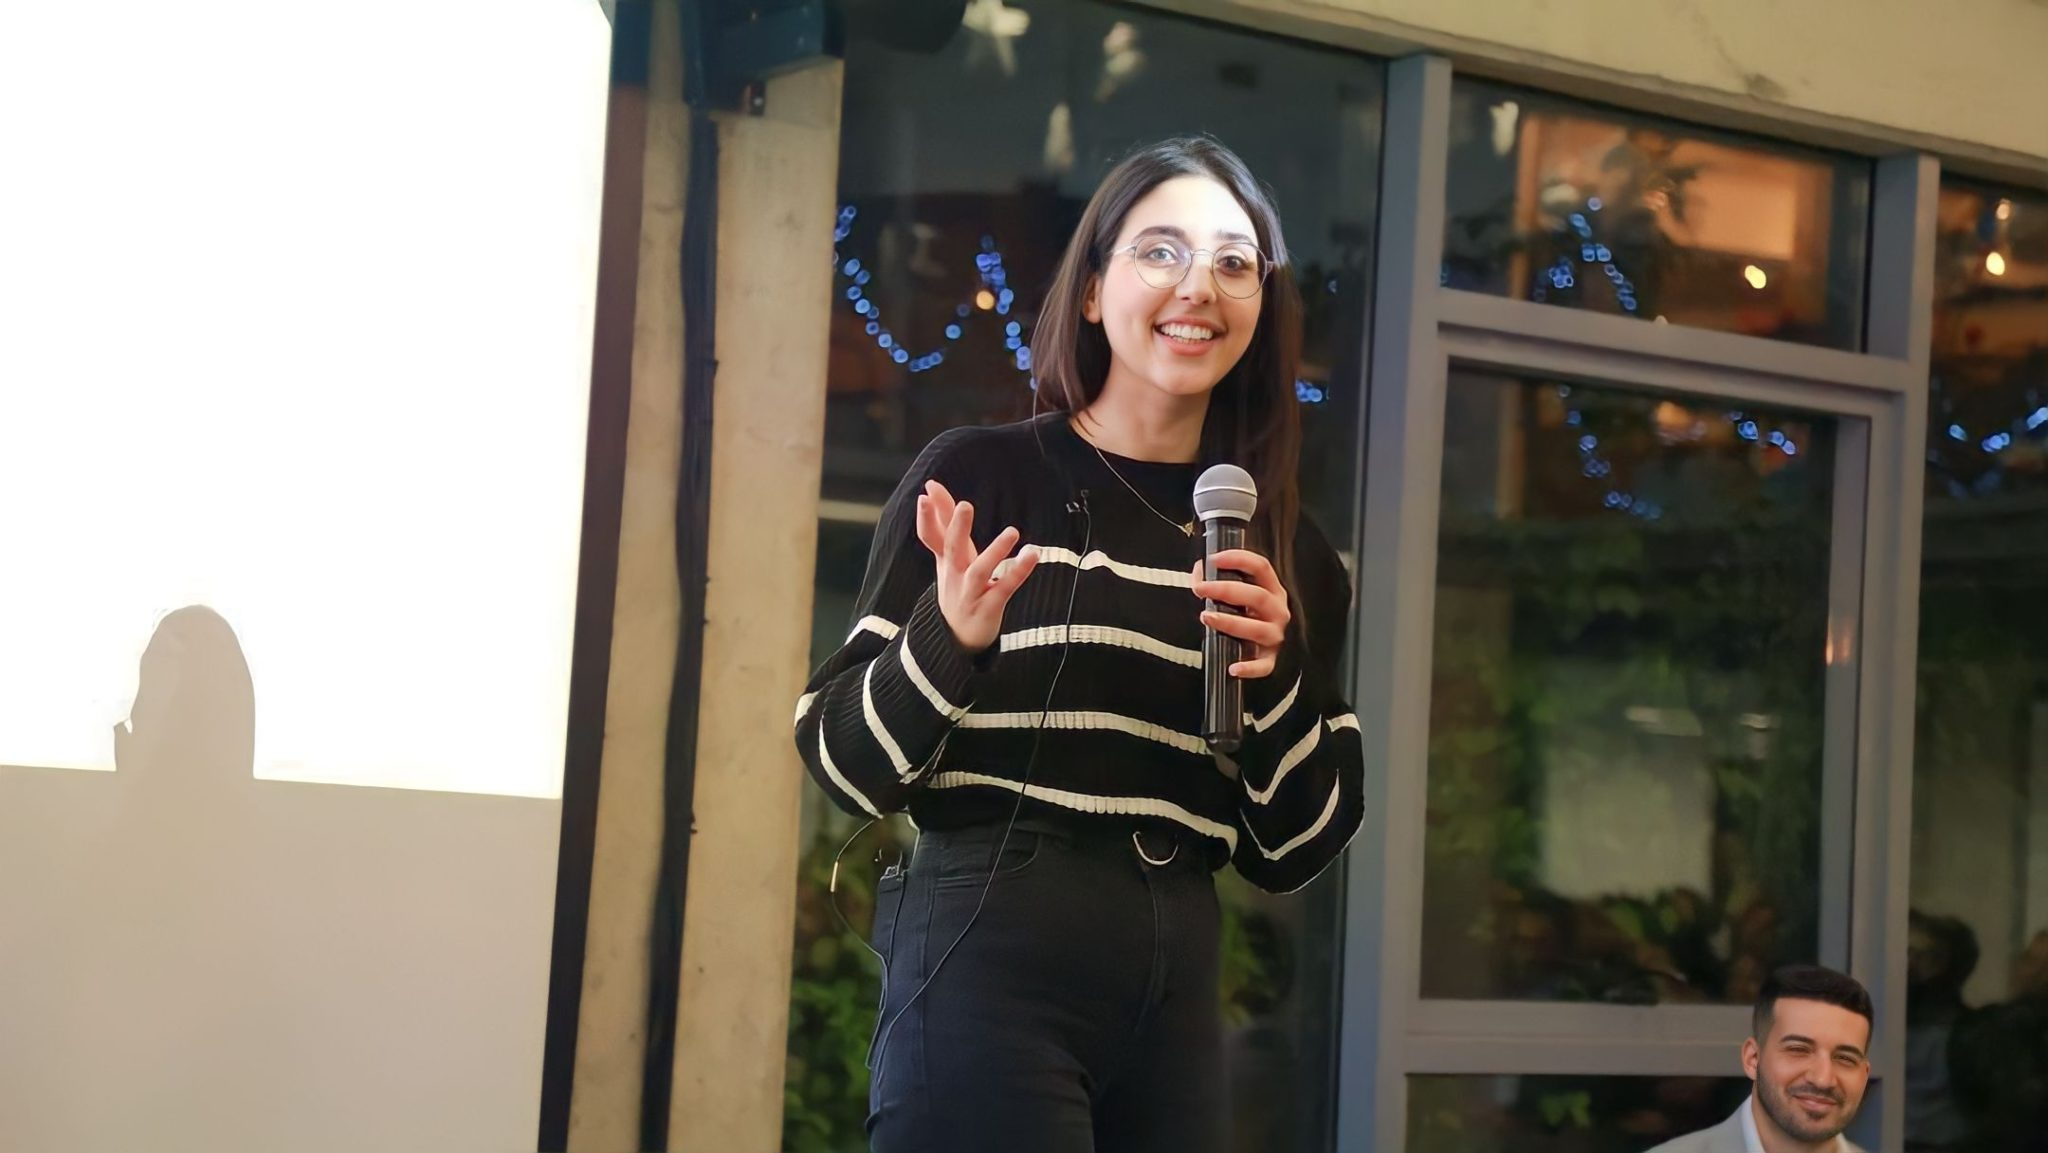
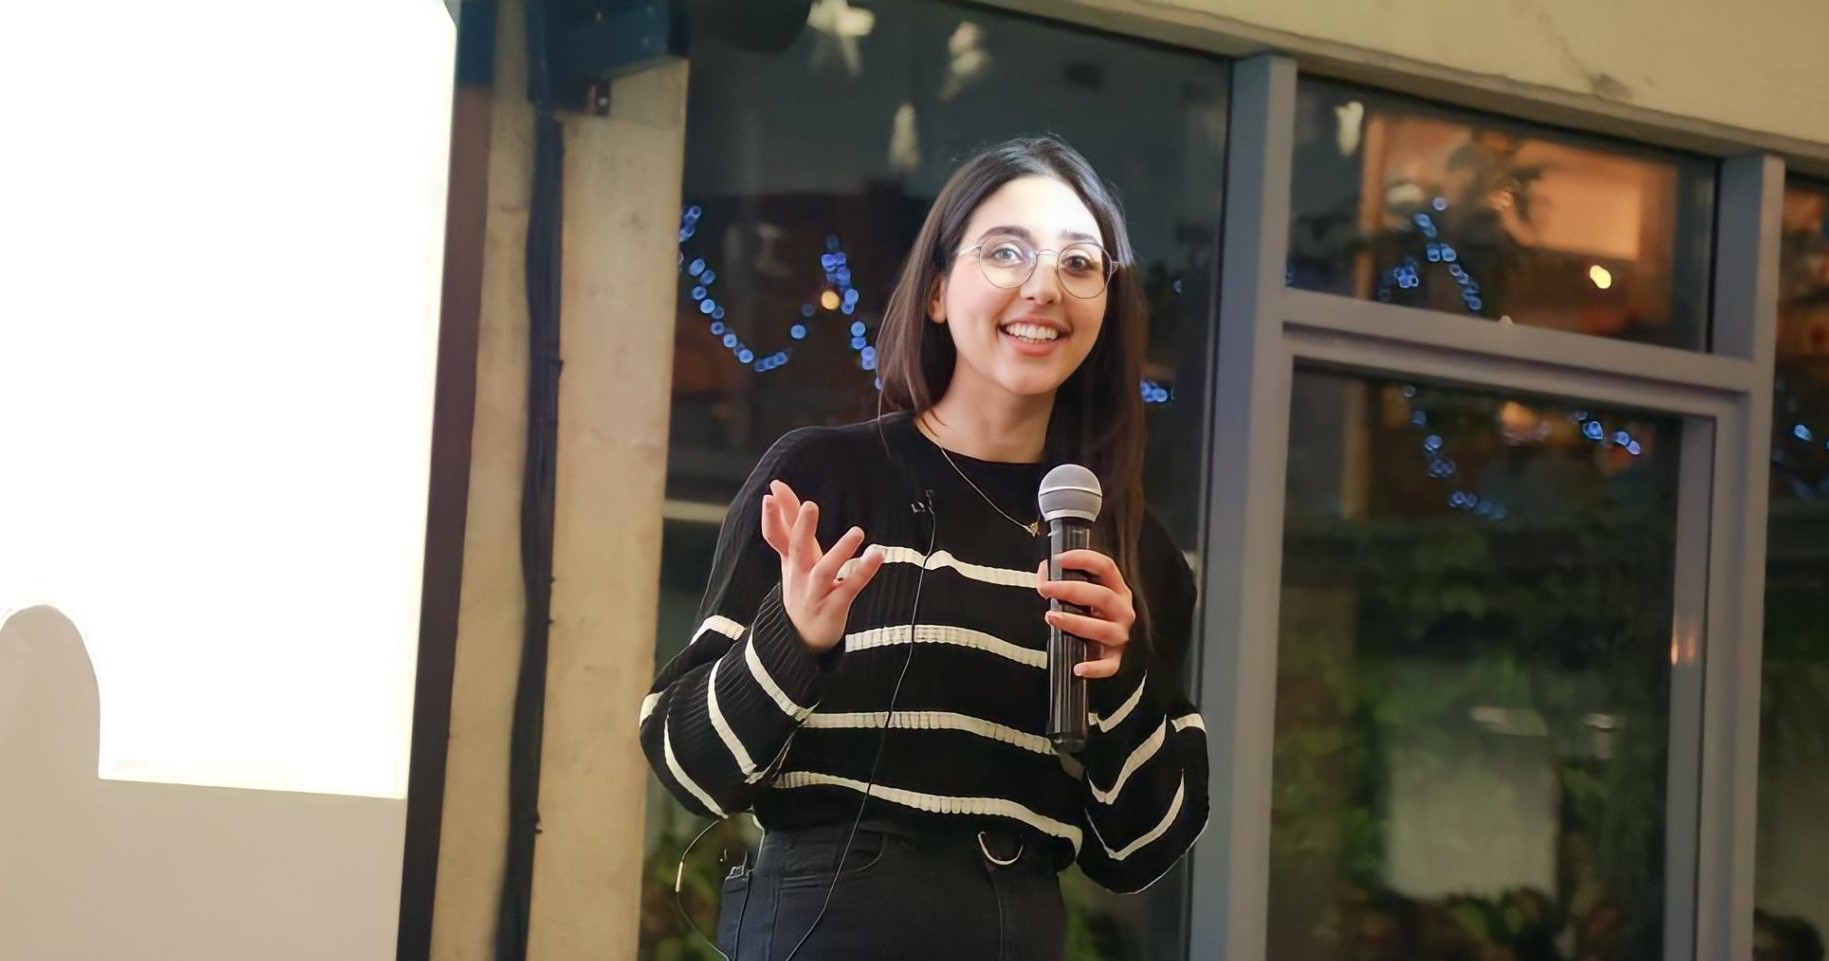
some more personal edits

diff --git a/src/Components/About.jsx b/src/Components/About.jsx
@@ -16,71 +16,88 @@ import React from "react";
  * Need an image? Check out https://unsplash.com to download a image you
  * freely use on your site.
  */
-import image from "../images/bg-green-leafs.jpg";
+import image from "../images/2.jpeg";
 
-const imageAltText = "purple and blue abstract background";
+const imageAltText = "space";
 
 /**
  * Sort description that expands on your title on the Home component.
  */
-const description =
-  "I'm a UI/UX student studying at Barnett Technical University. I enjoy creating unique and simplistic user interfaces in creative ways.";
+const description = [
+  "Hey! I am Marilyn Haber, a driven software developer with a passion for technology!",
+  "💻 I kick-started my career as a .NET developer, while still an undergraduate computer science student.",
+  "🚢 Currently, I am crafting impactful solutions to enhance innovation and efficiency in the freight management industry.",
+  "🚀 I have a growth mindset and always seek new opportunities to expand my skills and make a difference in the world!",
+  "👂 My experience in retail helped me develop my communication skills and learn the importance of actively listening to clients.",
+  "✨As a Facilitator of the Google Developers Student Clubs in Lebanon, my mission is to empower students and help them embark on their own tech journeys!",
+  "🎓I decided to pursue me education and get my masters degree. And here I am, a Microsoft Student Learn Ambassador at the Lebanese University!",
+];
 
 /**
  * List of some of skills or technologies you work on, are learning,
  * passionate about, or enjoy,
  */
-const skillsList = [
-  "Web design",
-  "User experience",
-  "Inclusive design",
-  "Focus group testing",
-  "Mobile user interfaces",
-  "Graphic design",
-];
+const skillsList = ["Web design", "User experience", "Inclusive design", "Focus group testing"];
 
 /**
  * Use this to give more information about what you are passionate about,
  * how you best work, or even a quote. This will help someone learn more
  * about you on a professional level.
  */
-const detailOrQuote =
-  "I am passionate about solving problems in new creative ways to drive innovation. By leveraging my UI/UX experience I continually look for new and better ways to make tech accessible by all.";
+const detail = "One of the quotes that I love 💫";
+const quote =
+  '"People who are crazy enough to think they can change the world, are the ones who do"';
+const author = "- Rob Siltanen";
 
-const About = () => {
-  return (
-    <section className="padding" id="about">
-      <img className="background" src={image} alt={imageAltText} />
+const About = () => (
+  <section className="padding" id="about">
+    <img className="background" src={image} alt={imageAltText} />
+    <div
+      style={{
+        backgroundColor: "white",
+        width: "50%",
+        padding: "4rem",
+        margin: "3rem auto",
+        textAlign: "center",
+      }}
+    >
+      <h2>About Me!</h2>
       <div
         style={{
           backgroundColor: "white",
-          width: "50%",
-          padding: "4rem",
-          margin: "3rem auto",
-          textAlign: "center",
+          width: "90%",
+          padding: "1rem 3rem 0",
+          textAlign: "left",
         }}
       >
-        <h2>About Myself</h2>
-        <p className="large">{description}</p>
-        <hr />
-        <ul
-          style={{
-            textAlign: "left",
-            columns: 2,
-            fontSize: "1.25rem",
-            margin: "2rem 3rem",
-            gap: "3rem",
-          }}
-        >
-          {skillsList.map((skill) => (
-            <li key={skill}>{skill}</li>
-          ))}
-        </ul>
-        <hr />
-        <p style={{ padding: "1rem 3rem 0" }}>{detailOrQuote}</p>
+        {description.map((line) => (
+          <p key={line}>{line}</p>
+        ))}
       </div>
-    </section>
-  );
-};
+      <hr />
+      <ul
+        style={{
+          textAlign: "left",
+          columns: 2,
+          fontSize: "1.25rem",
+          margin: "2rem 3rem",
+          gap: "3rem",
+        }}
+      >
+        {skillsList.map((skill) => (
+          <li key={skill}>{skill}</li>
+        ))}
+      </ul>
+      <hr />
+      <p style={{ padding: "1rem 3rem 0" }}>{detail}</p>
+      <center>
+        <p style={{ width: "50%" }}>
+          <b>{quote}</b>
+        </p>
+      </center>
+      <p style={{ padding: "1rem 3rem 0" }}>{author}</p>
+    </div>
+  </section>
+);
 
 export default About;

diff --git a/src/Components/Portfolio.jsx b/src/Components/Portfolio.jsx
@@ -19,9 +19,9 @@ import React from "react";
  * Need an image? Check out https://unsplash.com to download a photo you
  * freely use on your site.
  */
-import image from "../images/design-desk.jpeg";
+import image from "../images/devfest.jpg";
 
-const imageAltText = "desktop with books and laptop";
+const imageAltText = "Devfest GDG Coast Lebanon 2023 - I was a speaker where I shared my experience being a GDSC Lead";
 
 /**
  * Project list

diff --git a/src/Components/Header.jsx b/src/Components/Header.jsx
@@ -23,7 +23,7 @@ const Header = () => {
     >
       <a href="#home">Home</a>
       <a href="#about">About</a>
-      <a href="#portfolio">Portfolio</a>
+      <a href="#portfolio">Posts</a>
       <a href="#footer">Contact</a>
     </div>
   );
